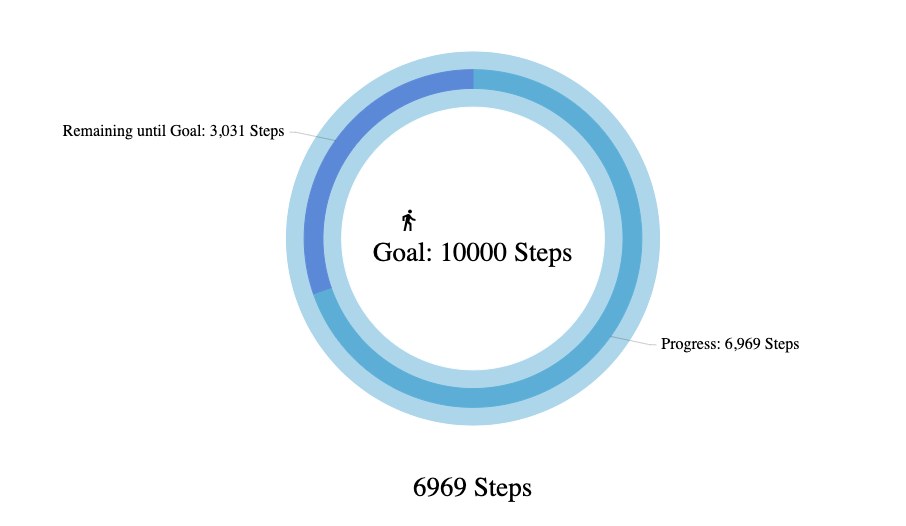
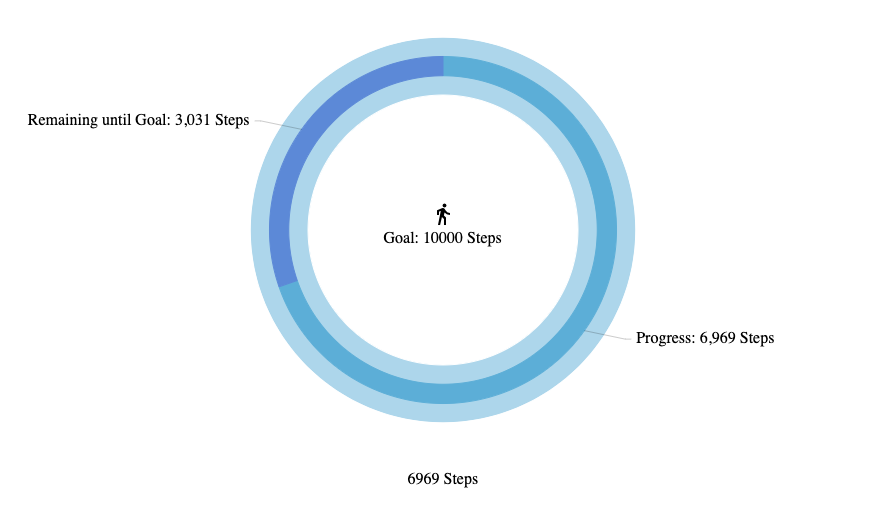
fonts and preview png

Changed region(s): [[0.0309, 0.0614, 0.8969, 0.8292], [0.433, 0.8906, 0.5876, 0.952]]

diff --git a/marketplace/kpi-goal/index.js b/marketplace/kpi-goal/index.js
@@ -5,7 +5,7 @@ var widgetLevelQueryTime = false;
 
 var widgetConfig = {
   colorTheme: null,
-  fontSize: 40,
+  fontSize: 30,
   icon: "directions_walk",
   unit: "Steps",
   goal: 10000,
@@ -198,6 +198,7 @@ var vueInstance = new Vue({
         pieSeries2.slices.template.states.getKey("hover").properties.scale = 1;
         pieSeries2.slices.template.propertyFields.fill = "fill";
         pieSeries2.labels.template.text = "{category}: {value} " + unit;
+        pieSeries2.labels.template.fontSize = fontsize * 0.6;
 
         if (previewMode === true) {
           // Add data

diff --git a/marketplace/kpi-goal/settings.js b/marketplace/kpi-goal/settings.js
@@ -103,7 +103,7 @@ try {
           : 10000;
       widgetConfigData.fontsize = widgetConfigData.fontsize
         ? widgetConfigData.fontsize
-        : 40;
+        : 30;
       widgetConfigData.innerRadius = widgetConfigData.innerRadius
         ? widgetConfigData.innerRadius
         : 40;
@@ -154,7 +154,7 @@ try {
     vueInstance.$emit("update", {
       goal: 10000,
       unit: "Steps",
-      fontsize: 9,
+      fontsize: 30,
       innerRadius: 40,
       icon: "directions_walk",
       chartHeight: 500,
